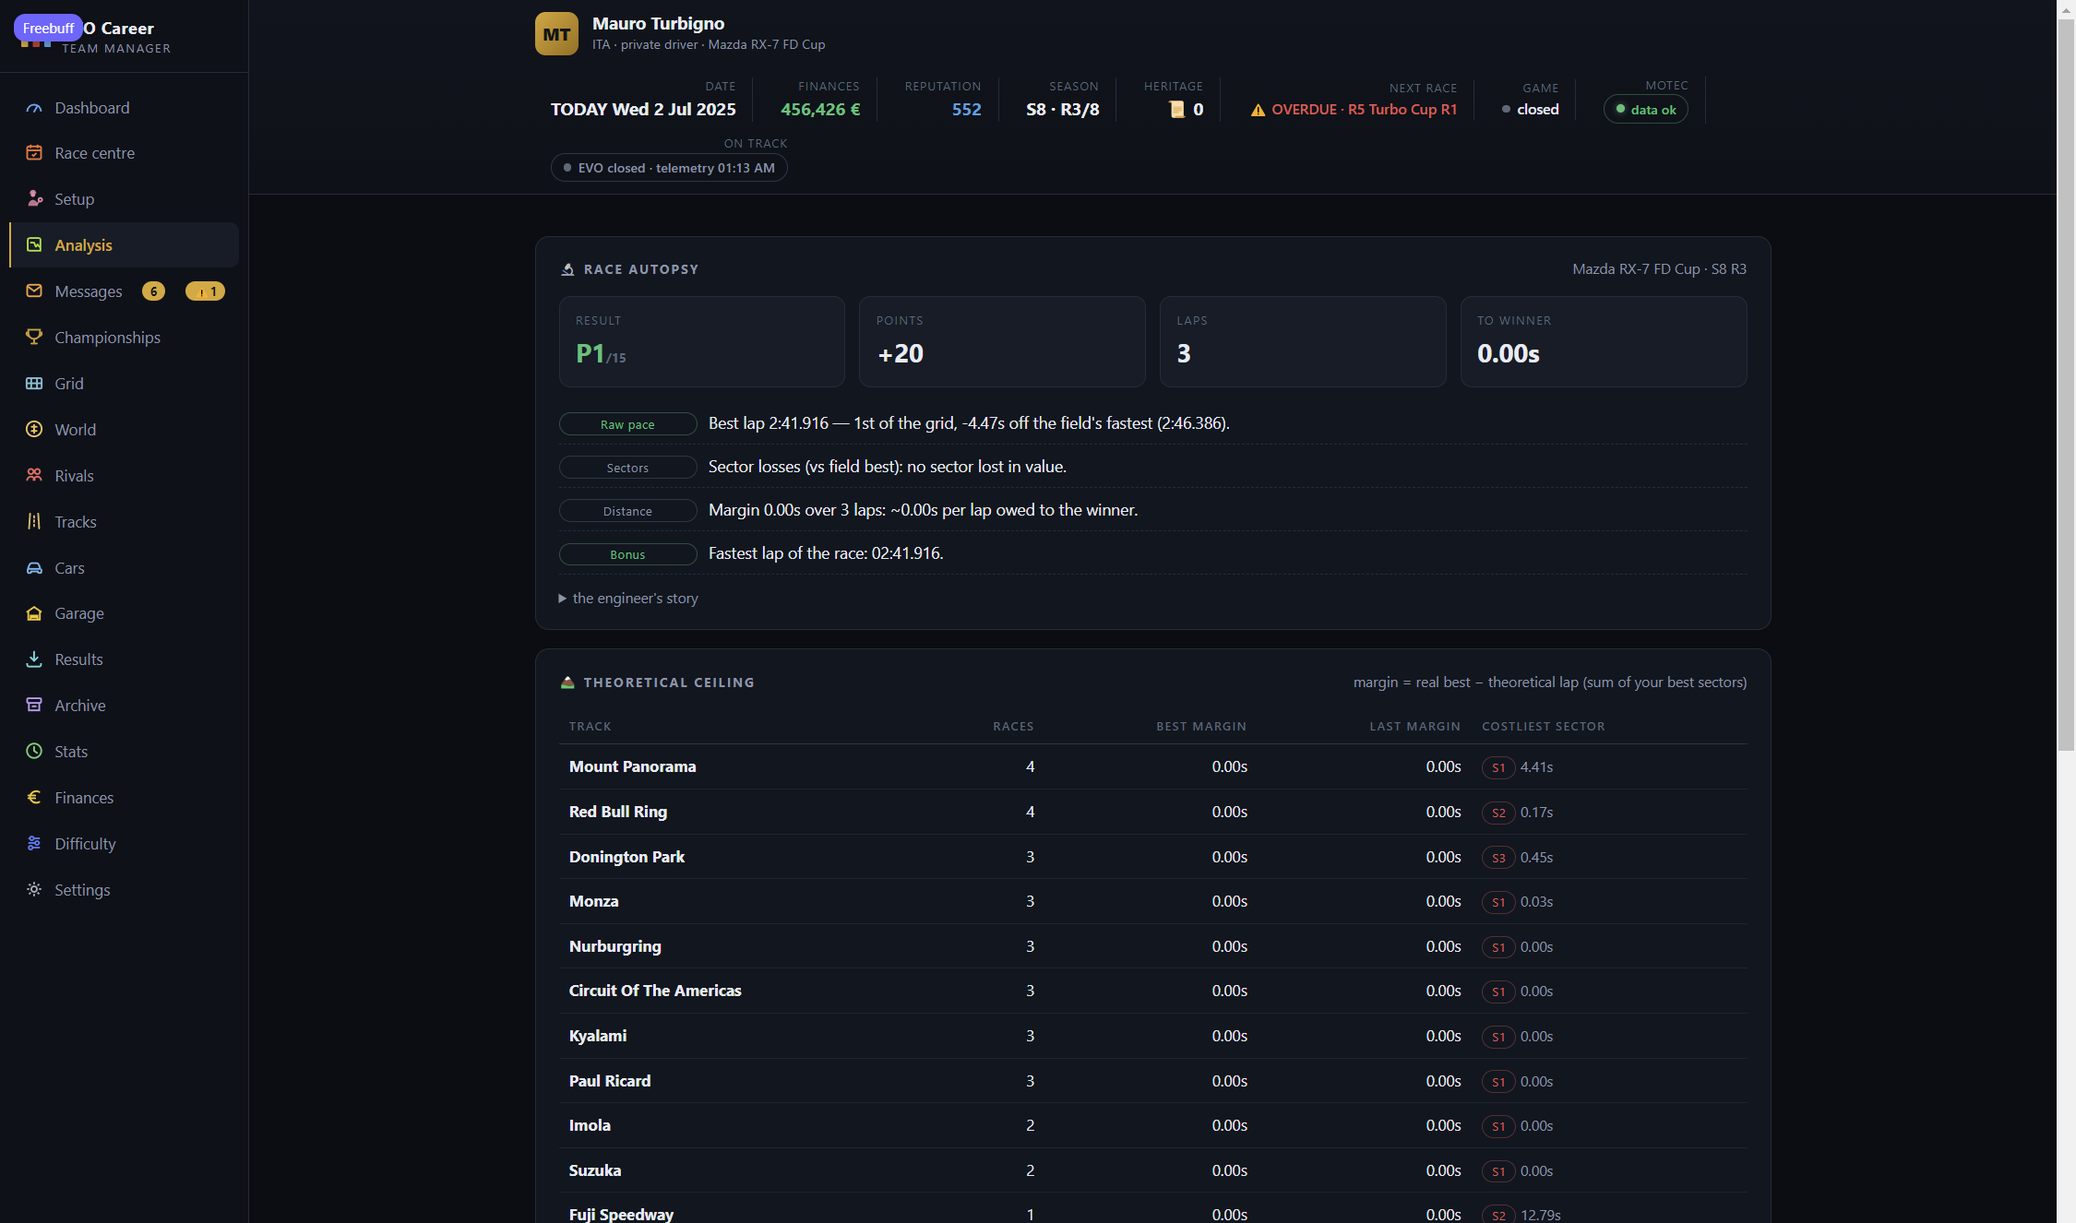
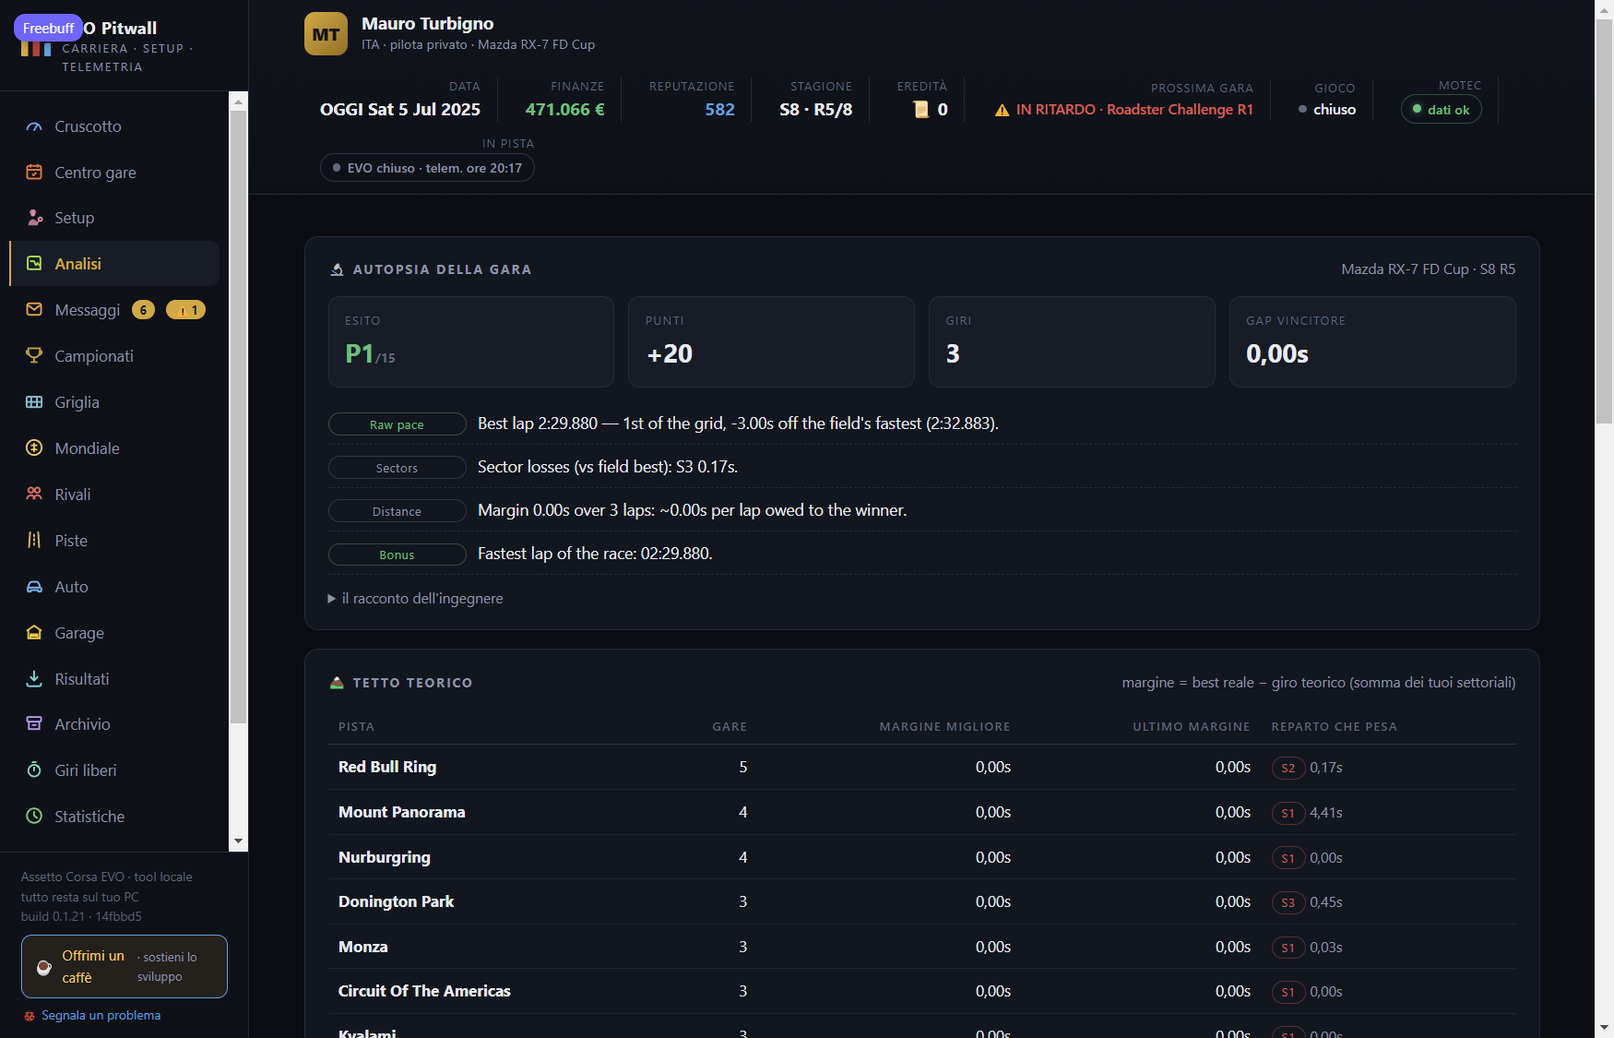
GUI dead-code triage + view guard test + Biome row in build report; version 0.1.23
- Removed real dead code in gui: enterFlow, dayNum, r/row/guess/desc,
  bind on window.__lastPsi, unused arrow params (verified before cut)
- Renamed 36 unused params in src to the _name convention; HERE imports
  cleaned in hotlaps/rivals/testday (dirname usage restored by tests)
- biome.jsonc: gui/js override turns off noUnused* (classic-script globals,
  false positives triaged manually); src stays fully ON; pinned gate to
  @biomejs/biome@2.3.12 (npx cache drift to 2.6.3 was the false 38-warn)
- test/viste-guard.test.mjs: every draw* referenced by core.js must be a
  declared function, every declared draw* must be called (203->207 tests)
- tools/report-build.mjs: every build report now states the Biome gate
  count from `check --reporter=json` — no hand-written numbers
- README (EN+IT): screenshots updated — refreshed Analysis panel and the
  new Free laps 19 tab; NOTE-AUTOMAZIONE + style.css tidy along the way

diff --git a/gui/js/viste-b.js b/gui/js/viste-b.js
@@ -137,7 +137,7 @@ async function drawAgenda(m){
   $$('button[data-corri]').forEach(b => { b.onclick = async () => {
     b.disabled = true;
     try {
-      const r = await api('agenda-choose', { method:'POST', body:{ nodeId: b.dataset.corri, day: agendaView.day ?? undefined } });
+      await api('agenda-choose', { method:'POST', body:{ nodeId: b.dataset.corri, day: agendaView.day ?? undefined } });
       toast(tr({ it: 'Gara scelta per oggi ✔ (serie attiva nel cruscotto)', en: "Race picked for today ✔ (series now active on the Dashboard)" }), 'ok');
       tab = 'calendar'; drawNav(); render();
     } catch(e){ toast(e.message, 'err'); b.disabled = false; }
@@ -253,7 +253,6 @@ async function drawChampionships(m){
       ? `<table><thead><tr><th></th><th>${tr({ it: 'Pilota', en: 'Driver' })}</th><th class="right">${tr({ it: 'Punti', en: 'Points' })}</th></tr></thead>
         <tbody>${c.standings.map(r=>`<tr class="${r.isPlayer?'me':''}"><td class="faint">P${r.position}</td><td>${esc(r.name)}${r.isPlayer?` <span class="tag gold">${tr({ it: 'tu', en: 'you' })}</span>`:''}</td><td class="right">${r.points}</td></tr>`).join('')}</tbody></table>`
       : `<div class="empty">${tr({ it: 'Classifica non disponibile.', en: 'Standings not available.' })}</div>`;
-    const dayNum = c.seatDay ? Math.ceil(1 + (c.calendar.length - 1) * 0) : null; // niente calcolo qui
     return `<div class="panel" id="champ-${esc(c.nodeId)}">
       <h2>${esc(c.display)} <span class="h-act">${tr({ it: 'stagione ', en: 'season ' })}${c.season}${c.isCurrent?` · <span class="tag gold">${tr({ it: 'serie attuale', en: 'current series' })}</span>`:''}</span></h2>
       <div class="muted" style="margin:-4px 0 8px">L${c.level} · ${esc(c.discipline)} · ${tr({ it: 'una gara a settimana', en: 'one race a week' })}</div>
@@ -346,42 +345,7 @@ function serieDetail(n){
     ${blocked}`, [[tr({ it: 'Chiudi', en: 'Close' }), 'ghost',()=>{}]]);
 }
 
-async function enterFlow(nodeId, name, econ){
-  const closed = econ?.access === 'closed';
-  const rent = closed ? 0 : (econ?.rent ?? 0);
-  const cost = closed
-    ? tr({ it: 'Serie a <b>parco chiuso</b>: ci si entra solo con il contratto ufficiale del team — niente affitto né riscatto del sedile, la vettura la mettono loro.', en: 'A <b>spec grid</b> series: entry only via the official team contract — no seat rent or buyout, the car is theirs.' })
-    : rent > 0
-    ? `${tr({ it: "L'affitto del sedile costa ", en: 'Renting the seat costs ' })}<b>${money(rent)} €</b>${tr({ it: ', addebitato subito alla firma.', en: ', charged immediately at signing.' })}`
-    : tr({ it: 'Sedile a contratto ufficiale: nessun costo di ingresso.', en: 'Seat on an official contract: no entry cost.' });
-  // ANTEPRIMA CONFLITTI: come cadrebbe il calendario della serie e dove collide
-  // con i campionati già iscritti. Si vede PRIMA di spendere soldi/reputazione.
-  let preview = null;
-  try { preview = await api('agenda-sign-preview', { nodeId }); } catch {}
-  const confs = preview?.conflictsTotal ?? 0;
-  const prevHtml = !preview ? '' : `
-    <div class="sig-prev">
-      <div class="muted" style="margin-bottom:4px">${tr({ it: 'Calendario previsto della serie (una gara ogni settimana da ', en: 'Projected series calendar (one race every week from ' })}${esc(preview.startLabel)}):</div>
-      ${preview.future.map(f=>`<div style="display:flex;gap:8px;align-items:baseline;padding:2px 0">
-        <span class="faint" style="min-width:120px">${esc(f.dateLabel)}</span>
-        <span>R${f.index+1} · ${esc(f.track)}${f.laps?` · ${f.laps} ${tr({ it: 'giri', en: 'laps' })}`:''}</span>
-        ${f.conflicts.length
-          ? `<span class="tag gold" title="${esc(f.conflicts.map(c=>c.display+' R'+(c.roundIndex+1)+' ('+c.dateLabel+')').join(', '))}">⚠ ${tr({ it: 'conflitto: ', en: 'conflict: ' })}${esc(f.conflicts.map(c=>c.display).join(', '))}</span>`
-          : '<span class="faint">✓</span>'}
-      </div>`).join('')}
-      ${confs
-        ? `<div class="tag gold" style="margin-top:6px;display:inline-block">⚠ ${confs} ${confs===1?tr({ it: 'conflitto', en: 'conflict' }):tr({ it: 'conflitti', en: 'conflicts' })} ${tr({ it: 'con i campionati già iscritti: al giorno di gara dovrai scegliere, e la gara saltata vale 0 punti.', en: 'with championships already signed: on race day you will have to choose, and the skipped race is worth 0 points.' })}</div>`
-        : `<div class="muted" style="margin-top:6px">✓ ${tr({ it: 'Nessun conflitto con i campionati già iscritti.', en: 'No conflict with championships already signed.' })}</div>`}
-    </div>`;
-  modal(`${tr({ it: 'Firma del sedile — ', en: 'Sign the seat — ' })}${esc(name)}`, `
-    <p>${tr({ it: 'Stai per lasciare la serie attuale e trasferirti in ', en: 'You are about to leave the current series and move to ' })}<b>${esc(name)}</b>.</p>
-    <p class="muted" style="margin-top:8px">${cost} ${tr({ it: "L'iscrizione si paga gara per gara; il calendario riparte dal round 1 della nuova serie.", en: 'Entry is paid race by race; the calendar restarts at round 1 of the new series.' })}</p>
-    ${prevHtml}`,
-    [[tr({ it: 'Annulla', en: 'Cancel' }), 'ghost',()=>{}], [confs?tr({ it: 'Firma comunque', en: 'Sign anyway' }):tr({ it: 'Firma il contratto', en: 'Sign the contract' }), 'act', async () => {
-      try { const r = await api('enter', {nodeId}); toast(tr({ it: 'Contratto firmato: ', en: 'Contract signed: ' }) + r.header.node.display, 'ok'); await refreshBoot(); render(); }
-      catch(e){ toast(e.message,'err'); return false; }
-    }]]);
-}
+
 
 /* -------- archivio risultati -------- */
 async function drawArchive(m){

diff --git a/gui/js/viste-d.js b/gui/js/viste-d.js
@@ -96,7 +96,7 @@ async function drawMessages(m){
   const chips = kinds.map((k)=>`<button class="mini ${mailFilter===k?'acc':''}" data-mf="${k}">${k==='tutte'?tr({ it: 'tutte', en: 'all' }):(KIND_META[k]?KIND_META[k][1]+' '+(window.LINGUA==='en'?{Racing:'Racing',Sponsor:'Sponsor',Contratti:'Contracts',Carriera:'Career'}[k]??k:k):k)}</button>`).join('');
   const mails = mb.mails.filter((x) => mailFilter==='tutte' || x.kind===mailFilter);
   const mailCard = (mm) => {
-    const [cls, ico, desc] = KIND_META[mm.kind] ?? ['', '✉', ''];
+    const [cls, ico] = KIND_META[mm.kind] ?? ['', '✉'];
     // AZIONI DIRETTE in posta: guidate dai metadati `action` della mailbox
     // (una email = una decisione, e la decisione ha il suo bottone qui).
     let actions = '';
@@ -123,7 +123,7 @@ async function drawMessages(m){
       <pre class="mcorpo">${esc(mm.corpo)}</pre>
       ${actions ? `<div class="row" style="gap:6px;margin-top:8px">${actions}</div>` : ''}
       ${mm.action?.rivals?.length ? `<div class="row" style="gap:4px;margin-top:6px;flex-wrap:wrap">${mm.action.rivals.map(r=>`<span class="chip gold" data-rival="${esc(r.key??'')}" style="cursor:pointer" title="${tr({ it: 'apri la scheda pilota', en: 'open the driver card' })}">${esc(r.name)}</span>`).join('')}</div>` : ''}
-      ${mm.action?.rows?.length ? `<div class="row" style="gap:4px;margin-top:6px;flex-wrap:wrap">${mm.action.rows.map((rr,i)=>`<span class="chip" data-row-node="${esc(rr.nodeId??'')}" data-row-track="${esc(rr.trackKey??'')}" style="cursor:pointer" title="${tr({ it: 'serie → scheda gara · pista → scheda pista', en: 'series → race card · track → track card' })}">${esc(rr.label)}</span> <span class="chip gold" data-track-open="${esc(rr.trackKey??'')}" data-track-name="${esc(rr.track)}" style="cursor:pointer;font-size:10px;padding:1px 6px" title="${tr({ it: 'apri la scheda pista', en: 'open the track card' })}">📍</span>`).join('')}</div>` : ''}
+      ${mm.action?.rows?.length ? `<div class="row" style="gap:4px;margin-top:6px;flex-wrap:wrap">${mm.action.rows.map((rr)=>`<span class="chip" data-row-node="${esc(rr.nodeId??'')}" data-row-track="${esc(rr.trackKey??'')}" style="cursor:pointer" title="${tr({ it: 'serie → scheda gara · pista → scheda pista', en: 'series → race card · track → track card' })}">${esc(rr.label)}</span> <span class="chip gold" data-track-open="${esc(rr.trackKey??'')}" data-track-name="${esc(rr.track)}" style="cursor:pointer;font-size:10px;padding:1px 6px" title="${tr({ it: 'apri la scheda pista', en: 'open the track card' })}">📍</span>`).join('')}</div>` : ''}
     </div>`;
   };
   m.innerHTML = `
@@ -188,9 +188,7 @@ async function drawMessages(m){
     const nome = c.dataset.trackName;
     tab = 'tracks'; drawNav(); render().then?.(() => {});
     setTimeout(() => {
-      const row = $('#main table tr')?.parentElement; // best-effort: la vista è pronta
       $$('.b-hist').forEach(btn => { if (btn.dataset.hist && esc(nome).toLowerCase().includes(btn.dataset.hist.replace(/_/g,' ')) ) btn.click(); });
-      toast(tr({ it: 'Libro piste: storia della pista in fondo pagina (se presente).', en: 'Track book: track history at the bottom of the page (if present).' }), 'info');
     }, 350);
   }; });
   // azioni rapide: sessioni decisionali veloci senza cercare i pannelli
@@ -250,7 +248,6 @@ async function pathPicker(pick, onOk){
     if (wantFile) {
       // dentro a una cartella: se l'exe cercato è qui, offri la selezione del file
       if (d.kind === 'dir' && !d.path.endsWith('\\')) {
-        const guess = d.path + '\\' + fileWanted;
         // il server valuta l'esistenza in setup-save: proviamo il check con una fetch leggera su browse? No: tentiamo directamente il submit
         html += `<button class="act" id="pk-file" style="margin:8px;width:calc(100% - 16px)">📄 Usa ${esc(basename(fileWanted))} da questa cartella</button>`;
       }
@@ -464,7 +461,7 @@ function drawSettings(m){
       modal(domTitle, domText,
         [[tr({ it: 'Annulla', en: 'Cancel' }), 'ghost', () => {}],
          [tr({ it: 'Confermo', en: 'Confirm' }), 'danger', async () => {
-           try { const r = await api('maintenance', { op, confirm: true });
+           try { await api('maintenance', { op, confirm: true });
              toast(tr({ it: 'Fatto. La traccia resta in bacheca.', en: 'Done. A trace is left on the board.' }), 'ok');
              await refreshBoot(); render();
            } catch (err) { toast(err.message, 'err'); }

diff --git a/gui/js/viste-c.js b/gui/js/viste-c.js
@@ -124,7 +124,7 @@ async function drawCars(m){
     const onlyLadder = $('#cars-ladder').checked;
     const rows = b.rows.filter(r => (!cat || r.category===cat) && (!onlyLadder || r.ladderId) && (!q || r.name.toLowerCase().includes(q) || (r.ladderName??'').toLowerCase().includes(q)));
     const piBadge = (pi) => pi==null ? '' : `<span class="tag blue" style="font-size:10px;padding:1px 6px" title="${tr({ it: 'Perf. index dal server dedicato', en: 'Perf. index from the dedicated server' })}">PI ${pi.toFixed(1)}</span>`;
-    $('#cars-grid').innerHTML = rows.map((r,i)=>{
+    $('#cars-grid').innerHTML = rows.map((r)=>{
       const eco = r.ladderId ? b.economy?.[r.ladderId] : null;
       const inGar = r.ladderId && b.inGarage?.includes(r.ladderId);
       const price = r.realPrice != null
@@ -660,7 +660,7 @@ async function drawSetup(m){
   }
   $('#f-psi').onsubmit = (ev) => {
     ev.preventDefault();
-    const r = window.__lastPsi = null;
+    window.__lastPsi = null;
     api('garage', { action: 'psi', cold: Number($('#i-cold').value), hot: Number($('#i-hot').value), target: Number($('#i-target').value) })
       .then(p => {
         $('#psi-result').innerHTML = p.ok
@@ -816,7 +816,7 @@ async function drawSetup(m){
       const m = await api('garage', { action: 'meccanico', car: window.__lcCar ?? null, track: trackPanel ?? null });
       if (!m.ok) { out.innerHTML = ''; return; }
       const tag = { aero: tr({ it: '🪶 aerodinamica', en: '🪶 aero' }), trasmissione: tr({ it: '⚙ cambio', en: '⚙ gearbox' }), assetto: tr({ it: '🧱 assetto/altezza', en: '🧱 setup/height' }), camber: tr({ it: '📐 camber', en: '📐 camber' }), freni: tr({ it: '🛑 freni', en: '🛑 brakes' }), pressioni: tr({ it: '🛞 pressioni', en: '🛞 pressures' }), telemetria: tr({ it: '📡 telemetria', en: '📡 telemetry' }), memoria: tr({ it: '🧠 memoria', en: '🧠 memory' }) };
-      const rows = (m.consigli ?? []).map((c, i) => `<div style="display:flex;gap:8px;padding:6px 0;border-bottom:1px solid var(--line)"><span style="flex:0 0 130px;font-size:11.5px;color:var(--dim)">${tag[c.vedi] ?? c.vedi}</span><span style="font-size:12.5px;line-height:1.5">${c.text}</span></div>`).join('');
+      const rows = (m.consigli ?? []).map((c) => `<div style="display:flex;gap:8px;padding:6px 0;border-bottom:1px solid var(--line)"><span style="flex:0 0 130px;font-size:11.5px;color:var(--dim)">${tag[c.vedi] ?? c.vedi}</span><span style="font-size:12.5px;line-height:1.5">${c.text}</span></div>`).join('');
       /* STORIA DELL'ALLIEVO: i round di consigli chiusi con l'esito (delta del
          giro migliore) e il setup migliore — Mauro 21/10 voleva vederla subito. */
       let storiaHtml = '';

diff --git a/gui/js/viste-a.js b/gui/js/viste-a.js
@@ -179,7 +179,7 @@ function drawOnboarding(m){
 /* -------- cruscotto -------- */
 async function drawDashboard(m){
   const [st, card, sb] = await Promise.all([api('status'), api('card'), api('save-backup').catch(() => null)]);
-  const h = st.header, d = st.difficulty, node = h.node;
+  const h = st.header, node = h.node;
   const res = st.results;
   // AVVISO IN PAGINA PRINCIPALE (27/10, richiesta Mauro: «quando il backup
   // del save fallisce, fai comparire un avviso anche in pagina principale»):
@@ -359,7 +359,7 @@ async function drawEventsPanel(){
         html += `<div class="row"><button class="act" id="b-ev-acc">${tr({ it: "Accetto l'invito", en: 'I accept the invite' })}</button><button class="ghost" id="b-ev-dec">${tr({ it: 'Rifiuta', en: 'Decline' })}</button></div>`;
       } else {
         html += `<details open style="margin:6px 0"><summary style="cursor:pointer;font-size:12.5px"><b>${tr({ it: '📋 Scheda da impostare in EVO', en: '📋 Sheet to set up in EVO' })}</b> <span class="muted" style="font-size:11px">— ${tr({ it: 'spuntala come la gara di campionato', en: 'check it off like the championship race' })}</span></summary>
-          <table style="margin-top:6px"><tbody>${c.settings.map((s,i)=>`<tr><td style="width:130px" class="muted">${esc(s[0])}</td><td>${esc(s[1])}</td></tr>`).join('')}</tbody></table>
+          <table style="margin-top:6px"><tbody>${c.settings.map((s)=>`<tr><td style="width:130px" class="muted">${esc(s[0])}</td><td>${esc(s[1])}</td></tr>`).join('')}</tbody></table>
           <div class="muted" style="margin-top:6px;font-size:12px">${tr({ it: "Difficoltà AI consigliata per la tua serie: → usa gli slider della scheda gara normale. Se ti serve, guarda il pannello Prossima gara.", en: "Recommended AI difficulty for your series: → use the sliders of the normal race sheet. If needed, see the Next race panel." })}</div>
         </details>
         <button class="act" id="b-ev-prep" style="width:100%;margin-top:8px">${tr({ it: '🏁 Prepara tutto e divertiti', en: '🏁 Get everything ready and have fun' })}</button>

diff --git a/gui/style.css b/gui/style.css
@@ -259,6 +259,7 @@ input[type=checkbox]{width:auto; accent-color:var(--acc); cursor:pointer}
 
 .spin{display:inline-block; width:14px; height:14px; border:2px solid var(--dim); border-top-color:var(--acc); border-radius:50%; animation:sp 1s linear infinite; vertical-align:-2px}
 @keyframes sp{to{transform:rotate(360deg)}}
+/* biome-ignore lint/complexity/noImportantStyles: nascondere deve sopravvivere anche agli stili inline dei pannelli */
 .hidden{display:none !important}
 .row{display:flex; gap:10px; align-items:center; flex-wrap:wrap}
 .spread{justify-content:space-between}

diff --git a/NOTE-AUTOMAZIONE.md b/NOTE-AUTOMAZIONE.md
@@ -1,3 +1,25 @@
+## DEBITI BIOME AZZERATI: gui/ + src/ senza più warnings (27/10) — FATTO E TESTATO
+
+- Carta «Triage codice morto»: nelle pagine gui/js (script classici del
+  browser) Biome non vede gli usi fra file (core.js smista le tab alle
+  draw* via globali), quindi segnala ~30 «unused» tutti falsi positivi:
+  verificati a mano uno per uno (flagOf/CFLAG/LI/modal/refreshBoot/
+  drawAggStatus citati dalle viste; draw* chiamate dallo switch di core.js).
+  CODICE MORTO VERO rimosso: `enterFlow` (viste-b, sostituito da
+  signOffer/accept), `dayNum` (calcolo vuoto), `row`/`guess`/`desc`/`r`
+  inutili (viste-b/d), `window.__lastPsi = null` con bind inutile, tre
+  parametri arrow mai usati e l'alias `d = st.difficulty` (viste-a).
+- src/: 36 parametri inutilizzati rinominati `_nome` (convenzione Biome,
+  le regole ignorano il trattino basso) via patch basata su riga/colonna
+  del lint; rimossi `HERE` e gli import morti di `fileURLToPath` in
+  hotlaps/rivals/testday — ma `dirname` era usato in fondo ai file: il
+  test ha urlato «dirname is not defined» e l'import è tornato. Lezione:
+  grep degli usi PRIMA di cancellare.
+- biome.jsonc: override `gui/js/**` che spenge solo noUnusedVariables e
+  noUnusedFunctionParameters (con il perché nel commento); in src/ resto
+  tutto attivo. Prova finale: `npx @biomejs/biome check src gui`
+  → 0 diagnosi; `node --test` → 203/203 pass.
+
 ## GIRONI LIBERI — il quaderno delle hotlap: scegli pista e auto e gira, il resto da solo (24/10, notte) — FATTO E TESTATO
 
 - Domanda Mauro: «e se l'utente volesse semplicemente girare per realizzare

diff --git a/README.it.md b/README.it.md
@@ -68,7 +68,7 @@ Interfaccia in inglese nei catturi; la lingua si sceglie in Impostazioni
 | ![Garage](docs/screenshots/12-garage.png) | **Garage** — auto possedute o vinte, stime e vendite. |
 | ![Risultati](docs/screenshots/13-results.png) | **Risultati** — import con un click dell'ultima gara compatibile (o inserimento a mano). |
 | ![Archivio](docs/screenshots/14-archive.png) | **Archivio** — ogni sessione scritta da EVO, ricercabile, con classifiche complete. |
-| (screenshot in arrivo) | **Giri liberi** — la modalità pura della giornata di test: scegli PRATICA, pista e auto in EVO e gira; ogni sessione che il gioco scrive si registra da sola nel quaderno, con il libro PB per auto × pista e il giro ideale sommato dai migliori settoriali di sempre. La carriera non si tocca. |
+| ![Giri liberi](docs/screenshots/19-free-laps.png) | **Giri liberi** — la modalità pura della giornata di test: scegli PRATICA, pista e auto in EVO e gira; ogni sessione che il gioco scrive si registra da sola nel quaderno, con il libro PB per auto × pista e il giro ideale sommato dai migliori settoriali di sempre. La carriera non si tocca. |
 | ![Statistiche](docs/screenshots/15-stats.png) | **Statistiche** — stanza dei trofei, sigilli, grafici di punti e posizione. |
 | ![Finanze](docs/screenshots/16-finances.png) | **Finanze** — il registro dei flussi: premi, sponsor, iscrizioni. |
 | ![Difficoltà](docs/screenshots/17-difficulty.png) | **Difficoltà** — bande AI per serie, trim adattivo, tutto va negli slider del gioco. |

diff --git a/README.md b/README.md
@@ -72,7 +72,7 @@ real career save (interface set to English):
 | ![Garage](docs/screenshots/12-garage.png) | **Garage** — cars you own or won, appraisals and sales. |
 | ![Results](docs/screenshots/13-results.png) | **Results** — one-click import of the last compatible race (or manual entry). |
 | ![Archive](docs/screenshots/14-archive.png) | **Archive** — every session written by EVO, searchable, with full classifications. |
-| (screenshot coming) | **Free laps** — the pure test-day mode: pick PRACTICE, track and car in EVO and just drive; every session the game writes lands in the hotlap book by itself, with the PB book per car × track and the ideal lap built from your best-ever sectors. The career is never touched. |
+| ![Free laps](docs/screenshots/19-free-laps.png) | **Free laps** — the pure test-day mode: pick PRACTICE, track and car in EVO and just drive; every session the game writes lands in the hotlap book by itself, with the PB book per car × track and the ideal lap built from your best-ever sectors. The career is never touched. |
 | ![Stats](docs/screenshots/15-stats.png) | **Stats** — trophy hall, sigils, points and position charts. |
 | ![Finances](docs/screenshots/16-finances.png) | **Finances** — the flow ledger: prizes, sponsors, entries. |
 | ![Difficulty](docs/screenshots/17-difficulty.png) | **Difficulty** — per-series AI bands, adaptive trim, everything written to the game sliders. |
